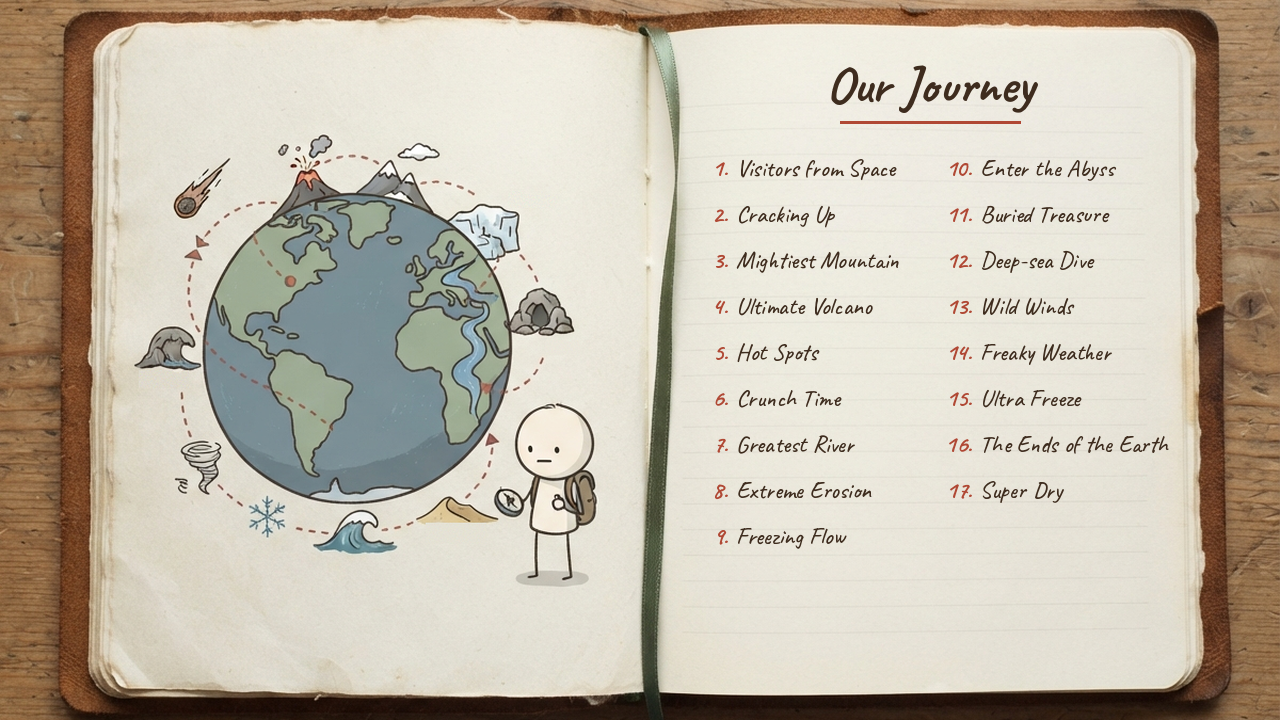
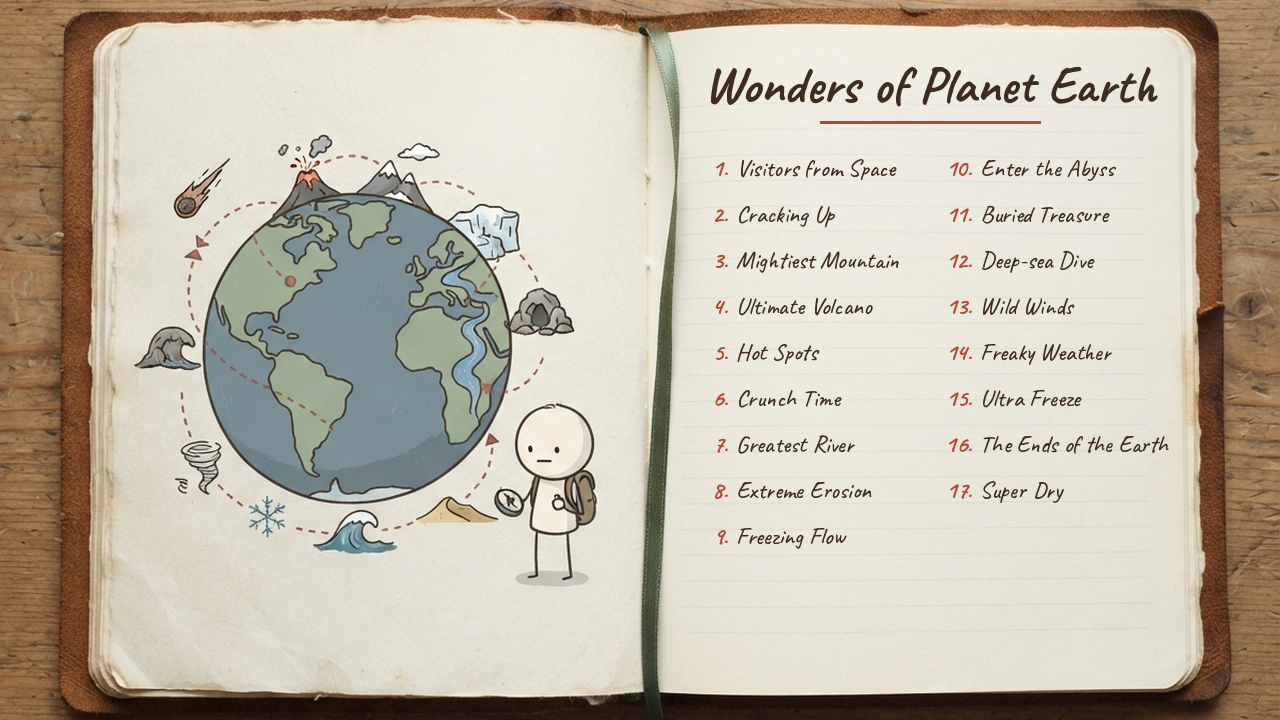
Wonders: TOC title 'Wonders of Planet Earth'
Claude-Session: https://claude.ai/code/session_014ZDV2znJXF7vwswAAvkZQY

Changed region(s): [[0.5312, 0.0917, 0.9062, 0.1528]]

diff --git a/video/wonders-of-planet-earth/toc_overlay.py b/video/wonders-of-planet-earth/toc_overlay.py
@@ -14,9 +14,11 @@ def make_toc(n=17, out=None):
     im = Image.open('images_fixed/00-toc.png').convert('RGBA')
     ov = Image.new('RGBA', im.size, (0, 0, 0, 0)); d = ImageDraw.Draw(ov)
     X0, X1 = 690, 1170
-    tf = font(52); title = 'Our Journey'
-    tw = d.textlength(title, font=tf); d.text(((X0 + X1 - tw) / 2, 52), title, font=tf, fill=INK)
-    d.line([((X0 + X1) / 2 - 90, 122), ((X0 + X1) / 2 + 90, 122)], fill=RED, width=3)
+    title = 'Wonders of Planet Earth'; ts = 52
+    while ts > 30 and d.textlength(title, font=font(ts)) > X1 - X0 - 20: ts -= 1
+    tf = font(ts); tw = d.textlength(title, font=tf)
+    d.text(((X0 + X1 - tw) / 2, 52 + (52 - ts) * 0.6), title, font=tf, fill=INK)
+    d.line([((X0 + X1) / 2 - 110, 122), ((X0 + X1) / 2 + 110, 122)], fill=RED, width=3)
     colx = [X0 + 6, X0 + 250]; y0 = 152; lh = 46; NW = 40; RIGHT = 1172
     size = 30
     while size > 20:
